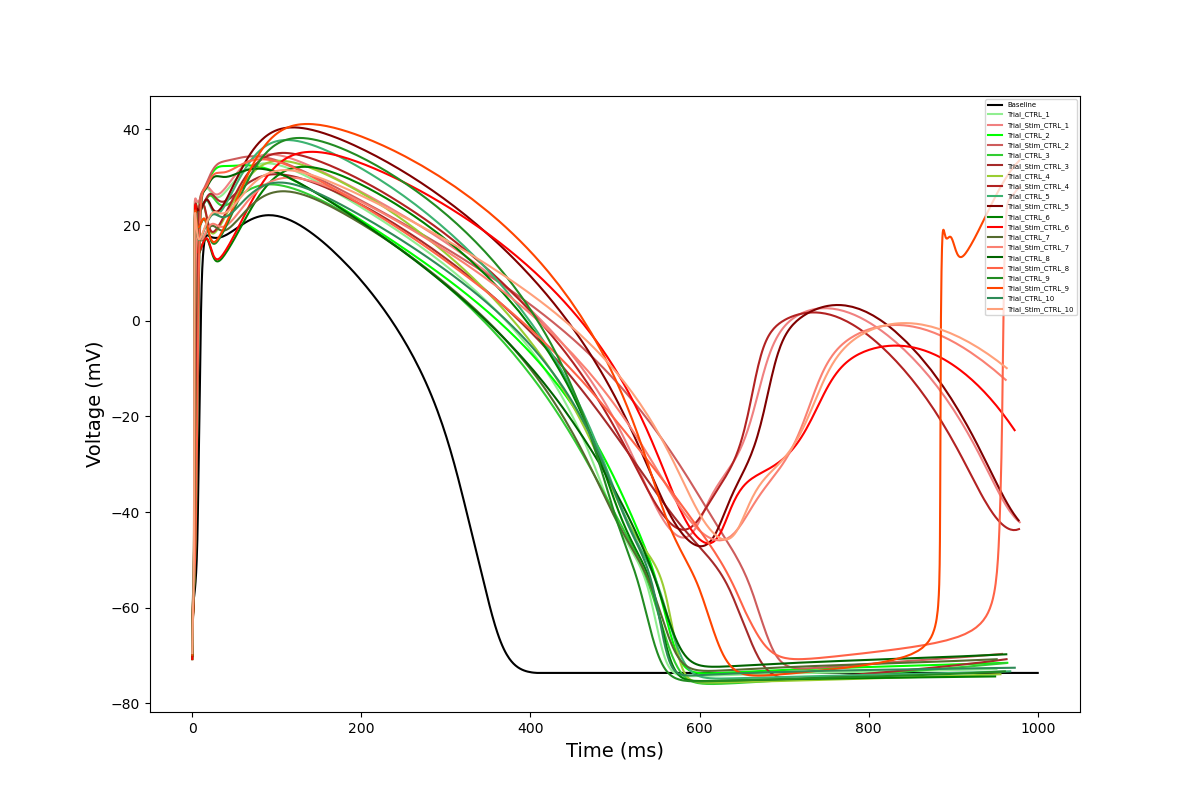
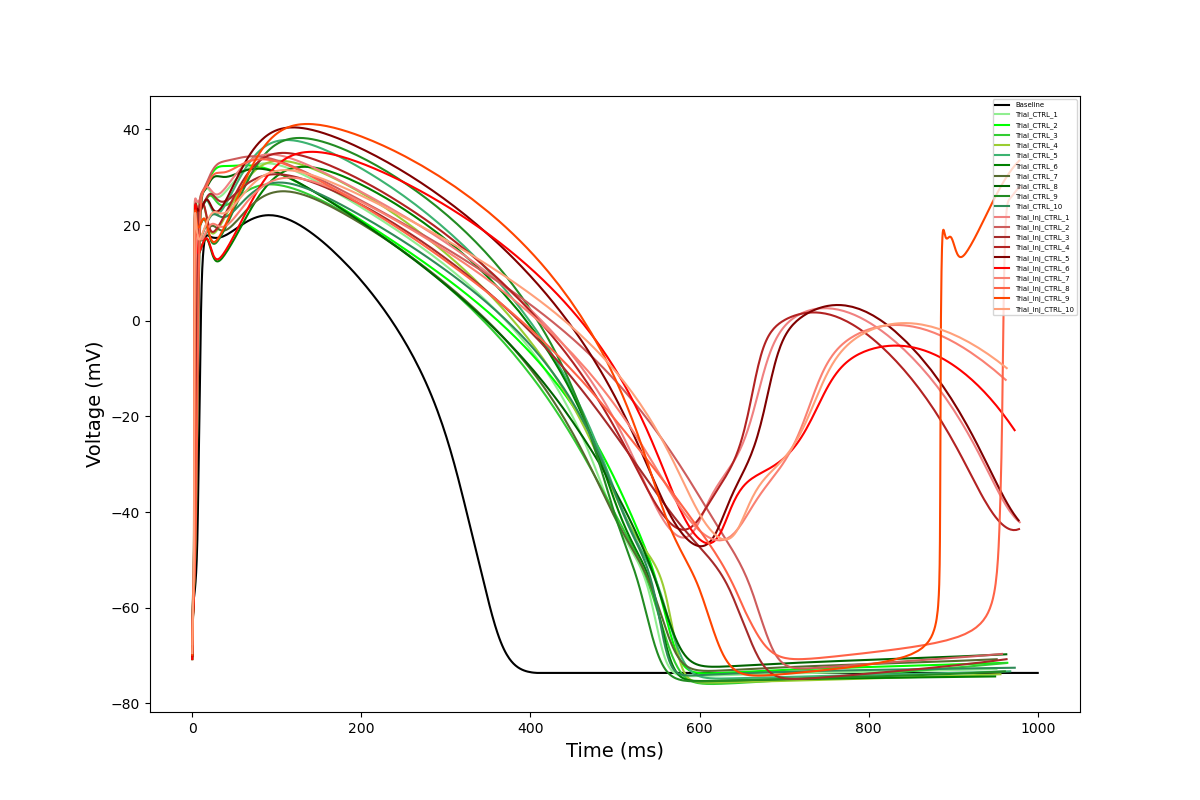
new

diff --git a/GA_bNa_bCa_NaK/stim.py b/GA_bNa_bCa_NaK/stim.py
@@ -22,7 +22,10 @@ c_stim = ['lightcoral', 'indianred', 'brown', 'firebrick', 'maroon', 'red', 'sal
 for i in list(range(0,len(pop_HCM))):
     t_leak, v_leak, t_rrc, v_rrc = stim(pop_HCM[i])
     axs.plot(t_leak, v_leak, color=c_HCM[i], label = f'Trial_HCM_{i+1}')
-    axs.plot(t_rrc, v_rrc, color=c_stim[i], label = f'Trial_Stim_HCM_{i+1}')
+
+for i in list(range(0,len(pop_HCM))):
+    t_leak, v_leak, t_rrc, v_rrc = stim(pop_HCM[i])
+    axs.plot(t_rrc, v_rrc, color=c_stim[i], label = f'Trial_Inj_HCM_{i+1}')
 
 axs.legend(fontsize= 5, loc='upper right')
 axs.set_ylabel('Voltage (mV)', fontsize=14)
@@ -40,7 +43,10 @@ pop_CTRL = [ind_ctrl1, ind_ctrl2, ind_ctrl3, ind_ctrl4, ind_ctrl5, ind_ctrl6, in
 for i in list(range(0,len(pop_CTRL))):
     t_leak, v_leak, t_rrc, v_rrc = stim(pop_CTRL[i])
     axs.plot(t_leak, v_leak, color=c_CTRL[i], label = f'Trial_CTRL_{i+1}')
-    axs.plot(t_rrc, v_rrc, color=c_stim[i], label = f'Trial_Stim_CTRL_{i+1}')
+
+for i in list(range(0,len(pop_CTRL))):
+    t_leak, v_leak, t_rrc, v_rrc = stim(pop_CTRL[i])
+    axs.plot(t_rrc, v_rrc, color=c_stim[i], label = f'Trial_Inj_CTRL_{i+1}')
 
 axs.legend(fontsize= 5, loc='upper right')
 axs.set_ylabel('Voltage (mV)', fontsize=14)
